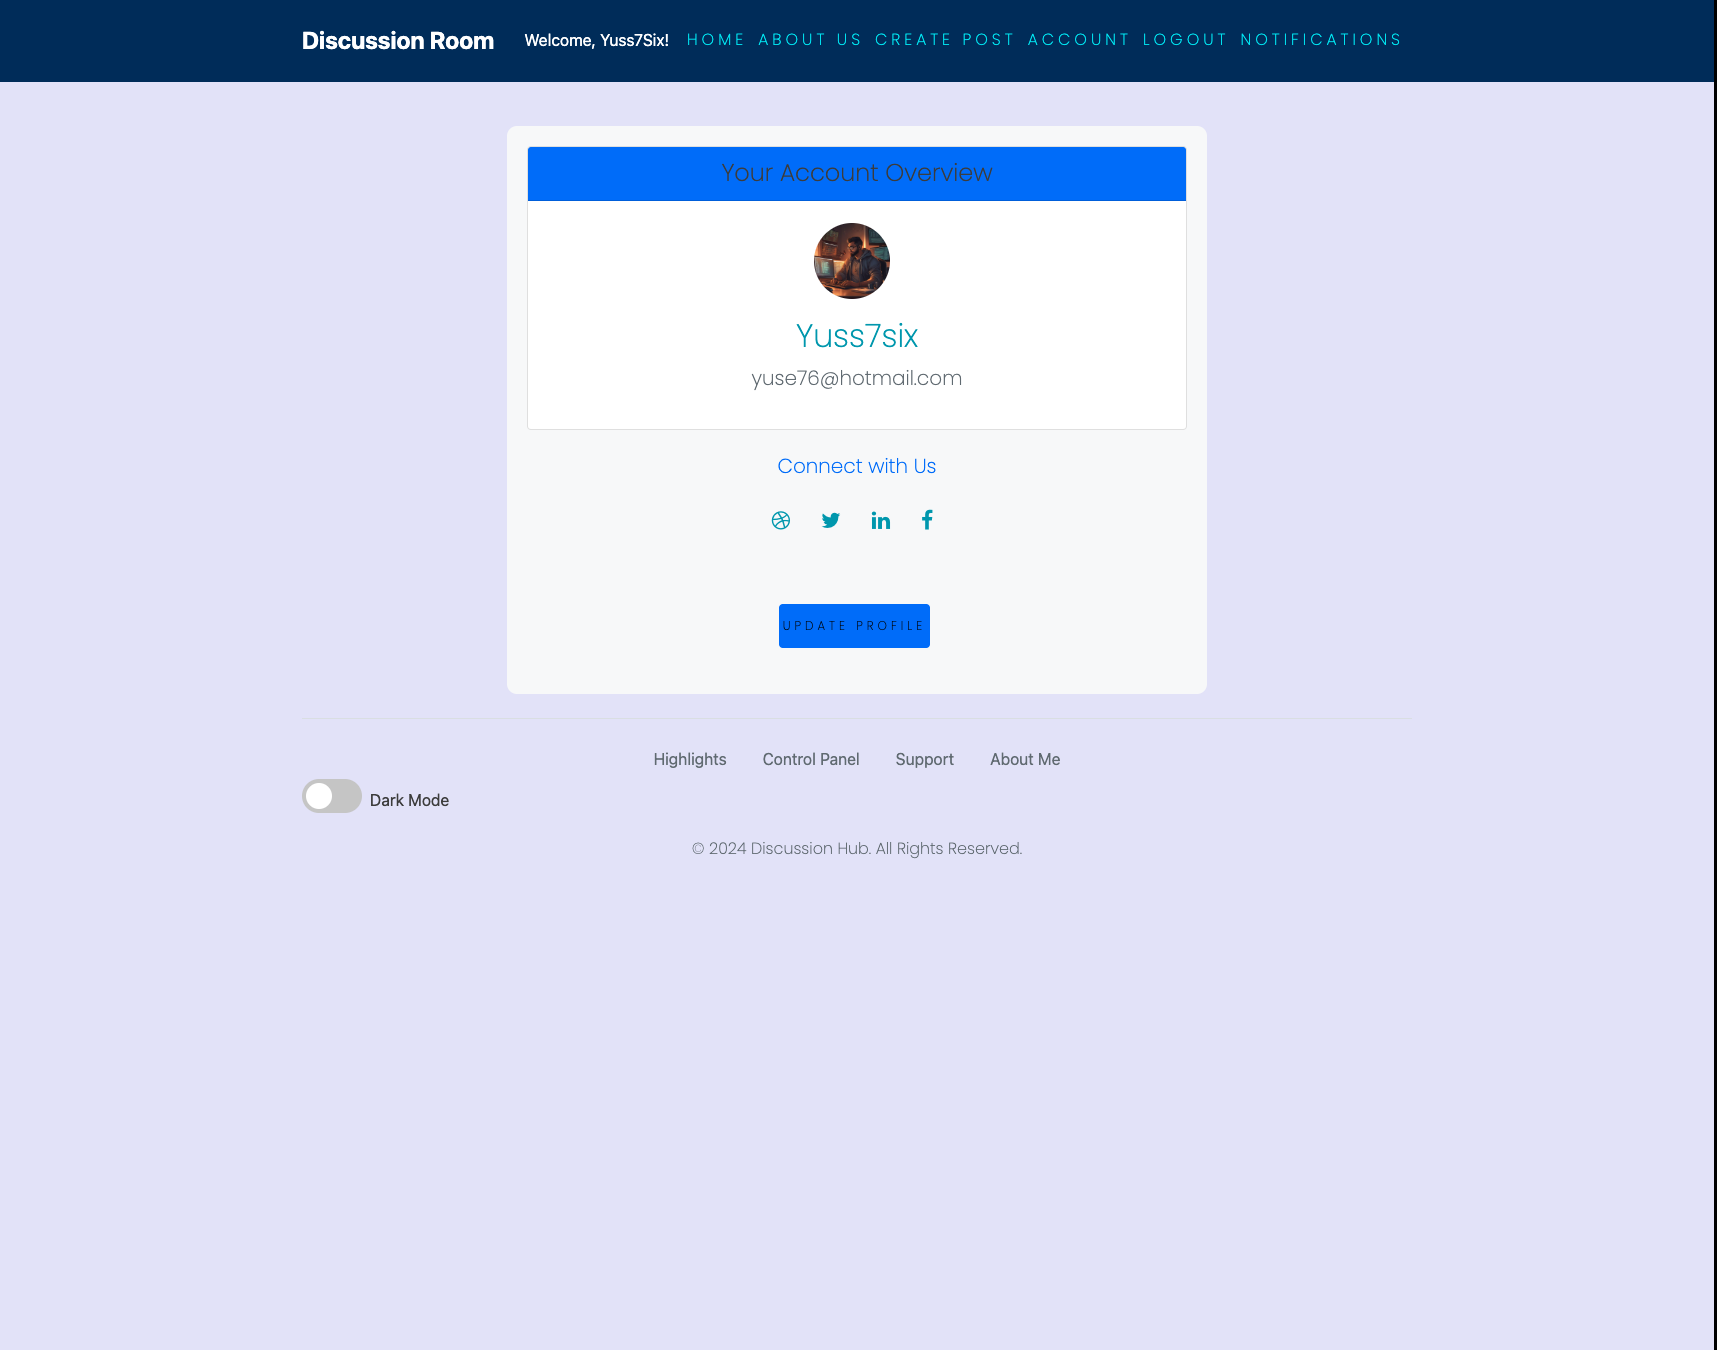
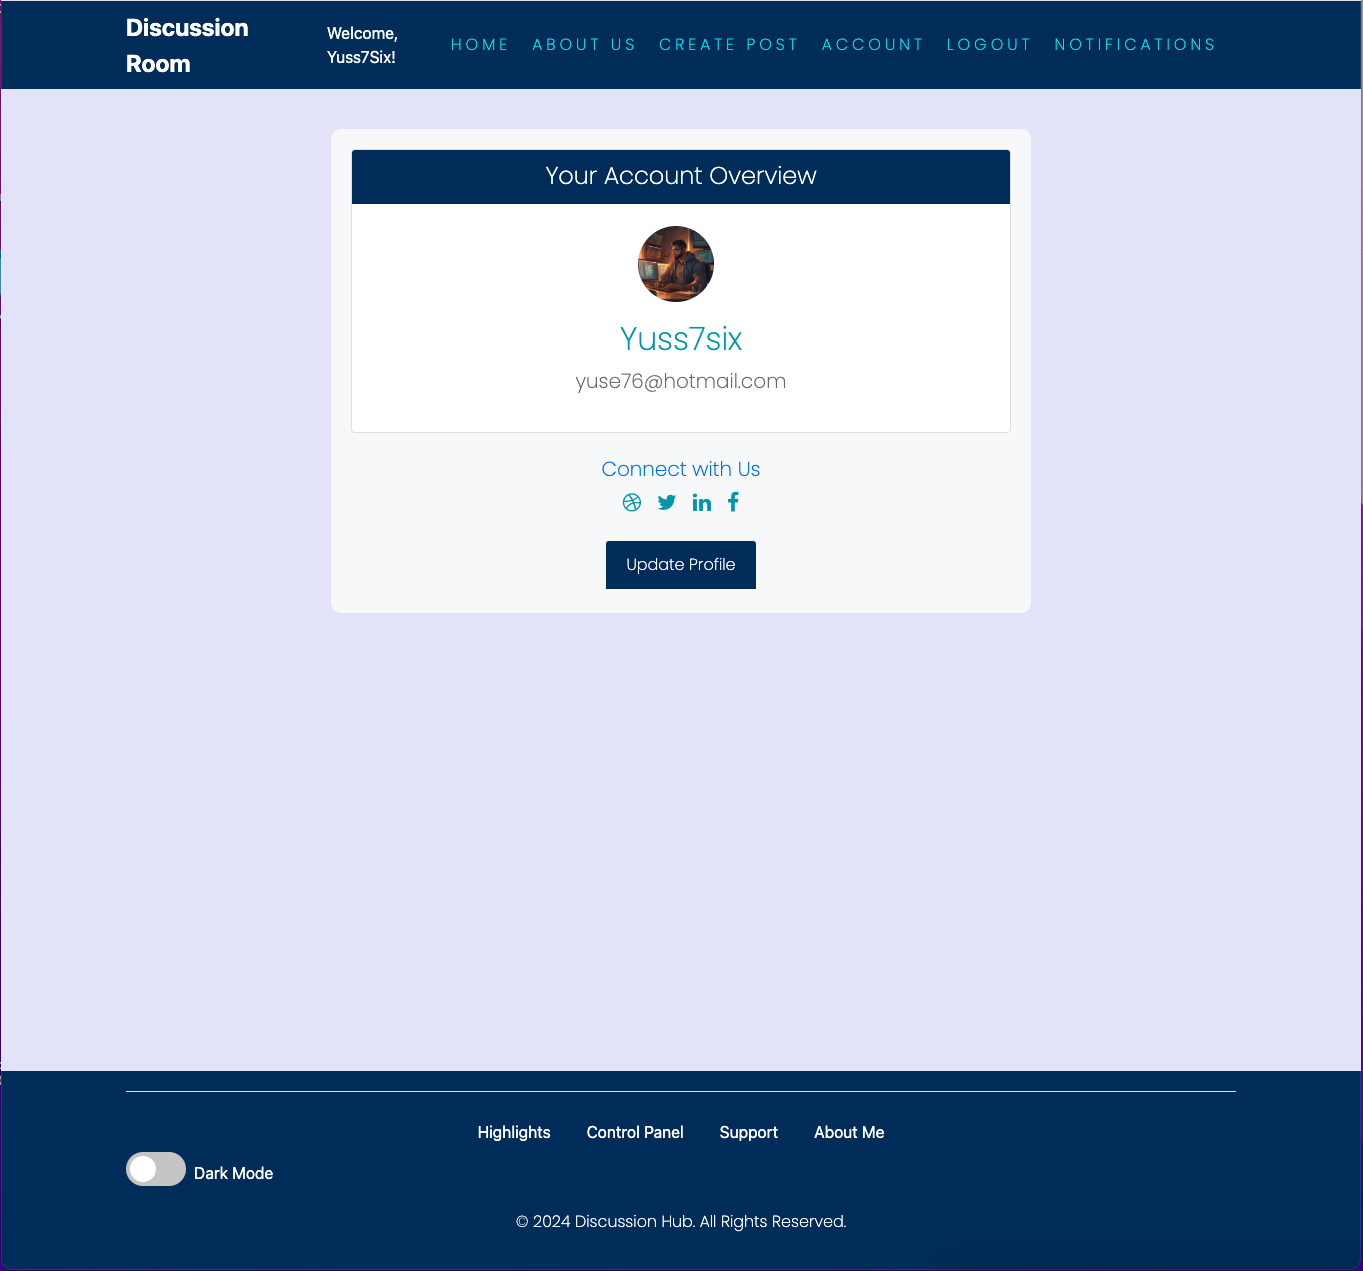
Update pictures in the edit your profile and account section in the readme file

diff --git a/README.md b/README.md
@@ -653,7 +653,7 @@ The Edit Profile Page features a visually appealing soft white container with a 
 
 Additionally, there is a specific section designated for changing the avatar image. This section showcases the current profile picture, allowing users to easily view their existing image prior to making any updates.
 
-At the bottom of the page, a Save Changes button is displayed with a vibrant blue-purple background and white text, enabling users to submit their updates. Adjacent to it, a straightforward blue link allows users to Cancel and return, providing a convenient option to exit without applying changes.
+At the bottom of the page, a "Save Changes" button is displayed with a vibrant blue that matches the footer and navbar, featuring white text to enable users to submit their updates. Adjacent to it, a straightforward blue link allows users to cancel and return, providing a convenient option to exit without applying changes.
 
 Users are also shown a warning message when considering a username change, informing them that any changes made will be reflected in the system. Once updated, the new username will serve as their primary login identifier. Additionally, users are reminded to enter a valid email address, allowing our team to reach out concerning any significant updates or changes.
 
